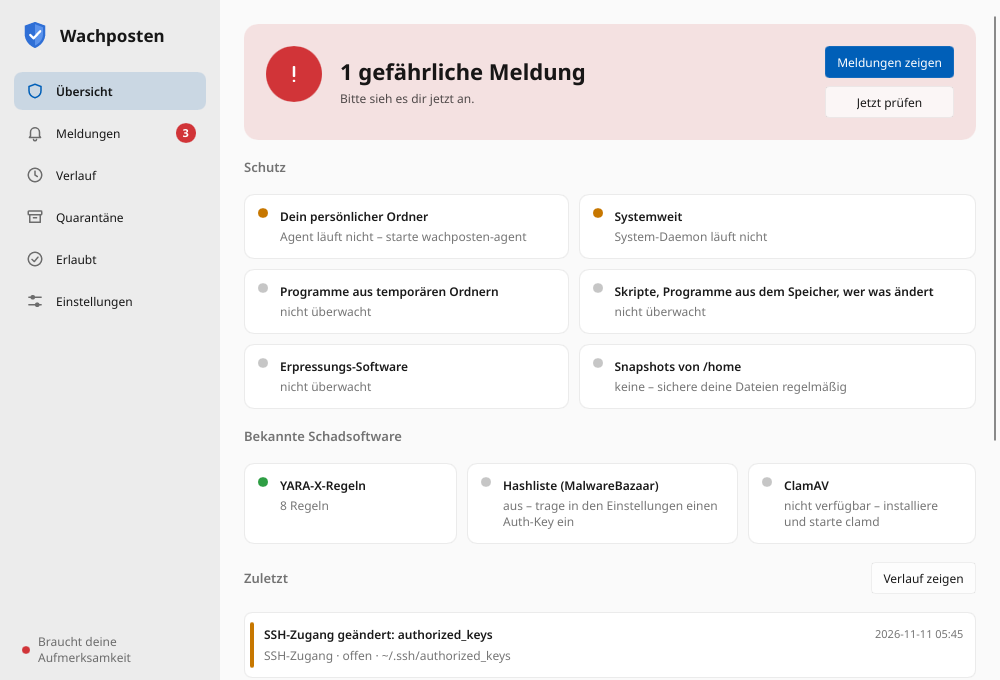
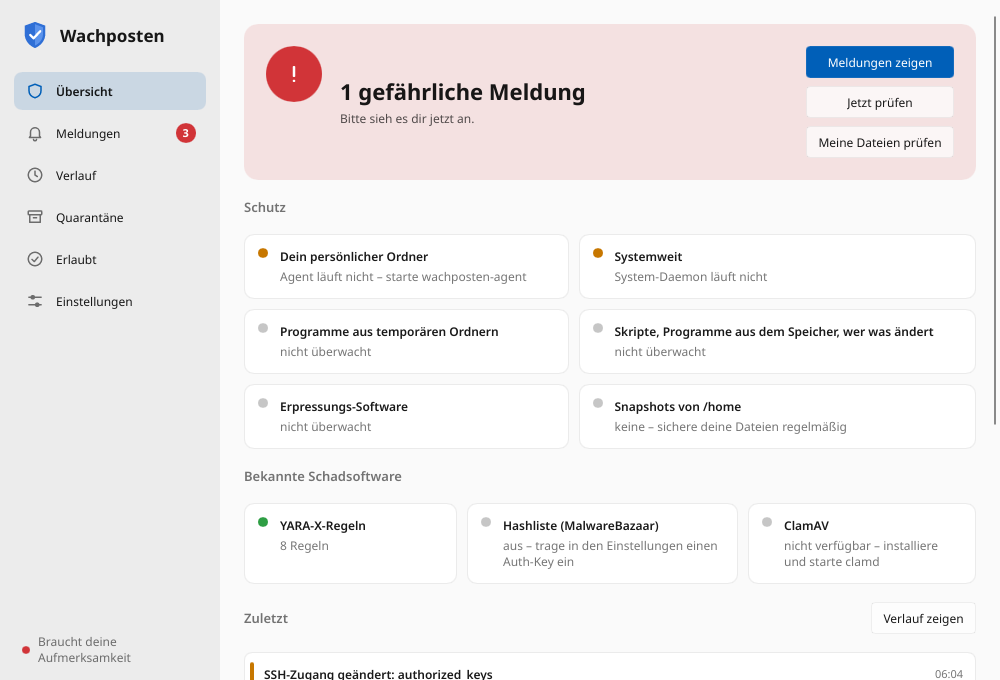
Window: short times in lists, capitalized kinds, screen reader labels
Lists show the time today and the day this year, so titles keep their
room in narrow windows; the detail view keeps the full date. Kinds start
with a capital in English too. Sidebar entries and event cards get
accessible roles, labels and default actions.

diff --git a/crates/app/src/gui.rs b/crates/app/src/gui.rs
@@ -65,6 +65,29 @@ fn when(ts: i64) -> String {
     )
 }
 
+/// Short time for lists: the time today, day and month this year, the date before.
+fn when_short(ts: i64) -> String {
+    let Some(t) = Local.timestamp_opt(ts, 0).single() else {
+        return ts.to_string();
+    };
+    let now = Local::now();
+    if t.date_naive() == now.date_naive() {
+        t.format("%H:%M").to_string()
+    } else if t.format("%Y").to_string() == now.format("%Y").to_string() {
+        t.format("%d.%m.").to_string()
+    } else {
+        t.format("%d.%m.%Y").to_string()
+    }
+}
+
+/// Labels are written for running text; at the start of a line they begin with a capital.
+fn capitalized(s: &str) -> String {
+    let mut c = s.chars();
+    c.next()
+        .map(|f| f.to_uppercase().chain(c).collect())
+        .unwrap_or_default()
+}
+
 fn status_label(status: Status) -> &'static str {
     match status {
         Status::Open => tr("offen", "open"),
@@ -104,10 +127,11 @@ fn row(state: &State, item: &Item) -> EventRow {
             "done"
         }
         .into(),
-        kind: i18n::kind_label(ev.kind).into(),
+        kind: capitalized(i18n::kind_label(ev.kind)).into(),
         ransomware: ev.kind == wachposten_core::Kind::Ransomware,
         status: status_label(ev.status).into(),
-        when: when(ev.updated_at).into(),
+        when: when_short(ev.updated_at).into(),
+        when_full: when(ev.updated_at).into(),
         can_decide: item.can_decide,
         open: ev.decidable(),
         noted: ev.status == Status::Noted,
@@ -151,7 +175,7 @@ fn detail(state: &State, item: Option<&Item>) -> EventDetail {
         valid: true,
         row: row(state, item),
         sentence: i18n::event_sentence(ev).into(),
-        kind: i18n::kind_label(ev.kind).into(),
+        kind: capitalized(i18n::kind_label(ev.kind)).into(),
         findings: strings(findings),
         lines: strings(lines),
         actor: ev
@@ -491,7 +515,16 @@ pub fn run(tab: Option<&str>, screenshot: Option<&Path>, dark: bool) -> Result<(
     let home = config.home.clone();
     let guard = Guard::open(config)?;
     let offscreen = screenshot
-        .map(|_| crate::shot::install(1000, 680))
+        .map(|_| {
+            let (w, h) = std::env::var("WACHPOSTEN_SHOT_SIZE")
+                .ok()
+                .and_then(|v| {
+                    let (w, h) = v.split_once('x')?;
+                    Some((w.parse().ok()?, h.parse().ok()?))
+                })
+                .unwrap_or((1000, 680));
+            crate::shot::install(w, h)
+        })
         .transpose()?;
     let ui = AppWindow::new()?;
     if offscreen.is_some() {
